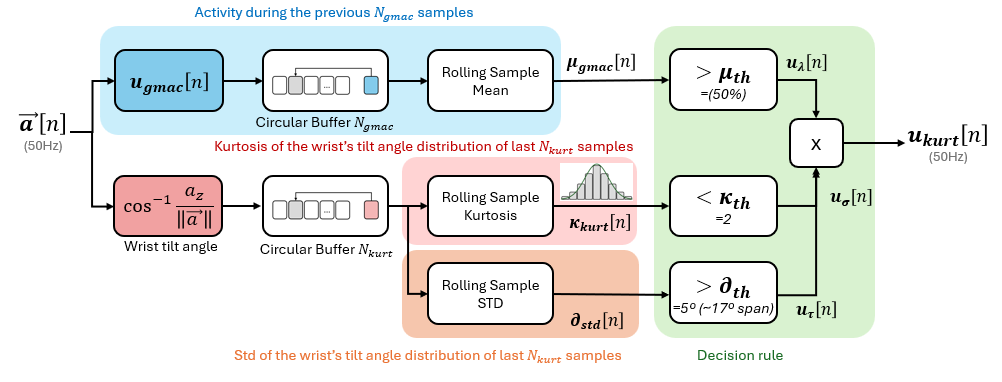
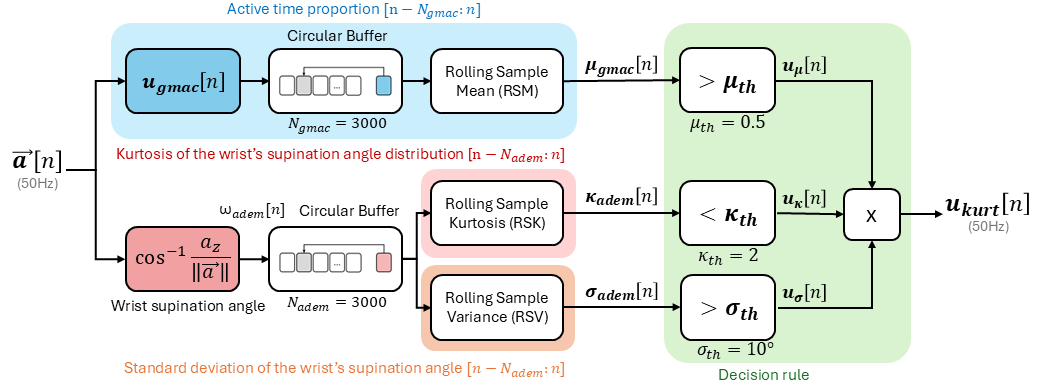
add pics

Changed region(s): [[0.0, 0.0, 0.99, 0.9791], [0.0928, 0.7487, 0.3094, 0.8063]]

diff --git a/README.md b/README.md
@@ -5,7 +5,7 @@
 It measures active time via GMAC and introduces ADEM (Active & Diverse Exploratory Movement), a diversity-focused metric leveraging kurtosis and standard deviation of the wrist-tilt range, in combination with a sustained activity. 
 Below is a concise guide to understand the app. This documentation includes recommendations and tips for developers aiming to build similar applications.
 
-- Main watch face and activities: ![Pipeline overview](docs/mainWatchFigure.png)
+![MAIN overview](docs/mainWatchFigure.png)
 
 ---
 
@@ -37,8 +37,8 @@ KurtosisStudy
 ## app/
 
 **Main Application (WearOS)**
-- Summary of the App files: ![Pipeline overview](docs/diversifyPipeline.png)
-- 
+![Pipeline overview](docs/diversifyPipeline.png)
+
 ---
 
 ### 🕹 MainActivity
@@ -85,12 +85,12 @@ KurtosisStudy
 
 ### 🧰 ComputationManager
 * **Role:** Streams and scores movement in real time: computes GMAC (active movement) and ADEM (kurtosis + STD + GMAC).
-* - Angles measured by the watch: ![Pipeline overview](docs/anglesPlots.png)
+* Angles measured by the watch: ![Pipeline overview](docs/anglesPlots.png)
 * **Windowing:** Uses a rolling 3000-sample window (~60 s at 50 Hz) with numerically safe online updates.
 * **computeGMAC:** Combines movement (computeActivity: HP-filtered magnitude + moving average) and forearm inclination (computeInclination: with hysteresis). Returns u_gmac flag (1 if active).
 * **computeADEM:** Sliding-window std and kurtosis with guards; diversity decision requires: kurtosis < kappa_th, meanGMAC > lambda_th, and stdDeg > angl_th. Returns u_adem flag (1 if diverse)
-- GMAC figure: ![Pipeline overview](docs/GMAC_fig.png)
-- ADEM figure: ![Pipeline overview](docs/ADEM_fig.png)
+- GMAC figure: ![GMAC overview](docs/GMAC_fig.png)
+- ADEM figure: ![ADEM overview](docs/ADEM_fig.png)
 
 ### 🔐 DataStorageManager
 * **Role:** Central I/O + analytics layer. Rotates a daily Room DB per date and maintains a cross-day MainResults DB; exposes cached values via SharedPreferences.
@@ -121,7 +121,8 @@ KurtosisStudy
 * Shows a random exercise GIF (avoiding immediate repeats) and saves its ID and timestamp in SharedPreferences.
 * The "Done" button lets the user switch to the next exercises after the exercise has been finished.
 * Keeps the screen awake for a ~3-minute window to avoid it turning idle or black.
-
+![Exercise overview](docs/exerciseScreen.png)
+- 
 ###  🪵 LogSaver
 * Asynchronously logs messages to Android’s Logcat (level-aware).
 * Also saves logs into the app’s Room DailyDatabase. If the daily database isn’t ready/open, it buffers log entries in memory and flushes them to the DB once available.
@@ -231,7 +232,7 @@ Source code for the custom watchface and complications is in this repo:
 **https://github.com/gcornella/Diversify_WatchFaceComplications**
 
 **New watchface and complications**
-- Overview: ![Pipeline overview](docs/IMG_6589.PNG)
+- Overview: ![COMPLICATIONS overview](docs/complications.png)
 
 ###  🛠 Complications overview
 Although more details are available on the watchface repo, here goes a summary:
